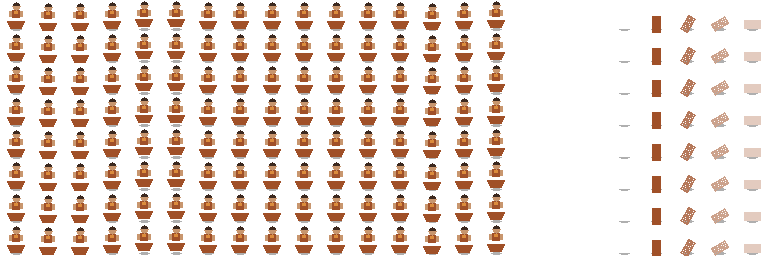
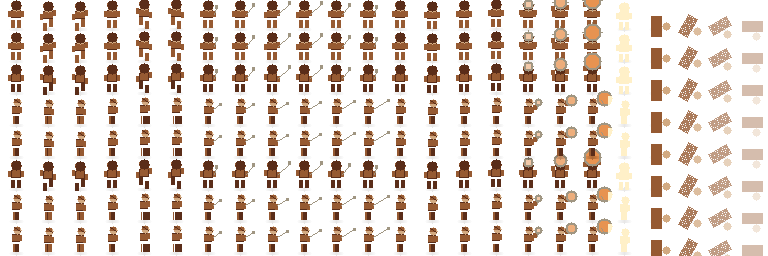
Fix CI: install SDL X11 deps on Linux

Changed region(s): [[0.0, 0.0, 1.0, 1.0]]

diff --git a/src/scenes/town_scene.hpp b/src/scenes/town_scene.hpp
@@ -37,6 +37,7 @@
 #include "../systems/world_renderer.hpp"
 #include "../systems/player_configurator.hpp"
 #include "../core/pause_menu.hpp"
+#include "../core/sprite_layout.hpp"
 
 namespace mion {
 
@@ -107,6 +108,7 @@ public:
 
         _actors.clear();
         _actors.push_back(&_player);
+        _rebuild_npc_actors();
 
         if (_audio) {
             _audio->stop_all_ambient();
@@ -179,6 +181,7 @@ public:
         _player_action.fixed_update(_player, input, dt, _audio, nullptr, nullptr);
         _resource_sys.fixed_update(_actors, dt);
         _col_sys.resolve_all(_actors, _room);
+        _col_sys.resolve_actors(_actors, &_room);
         _update_npcs(dt);
 
         // Animação do player — atualiza dir_row igual ao dungeon
@@ -280,10 +283,9 @@ public:
             }
         }
 
-        // NPCs — sprite animado ou retângulo fallback
-        // sprite_scale=2.0 → frame 32x32 lógico fica 64x64 no mundo,
-        // consistente com inimigos do dungeon que usam sprite_scale=2.0.
-        static constexpr float kNpcSpriteScale = 2.0f;
+        // NPCs — sprite animado ou retângulo fallback.
+        // Escala de NPC = mesma escala de sprite do player, para manter
+        // coerência visual de tamanho entre todos os personagens 2D.
         static const struct { const char* name; const char* path; } kNpcSprites[] = {
             { "Mira",     "assets/npcs/npc_mira.png"     },
             { "Forge",    "assets/npcs/npc_forge.png"    },
@@ -298,24 +300,35 @@ public:
                 }
             }
             if (ntex) {
-                // Idle frame 0 da linha Sul (row 0, col 12): frame 32×32 px
-                constexpr float kFW = 32.0f, kFH = 32.0f;
-                SDL_FRect src = { 12 * kFW, 0.0f, kFW, kFH };
-                // Centralizado em npc.{x,y} com tamanho escalado
-                float draw_w = kFW * kNpcSpriteScale;
-                float draw_h = kFH * kNpcSpriteScale;
+                // Idle frame 0 da linha Sul (row 0, col 12).
+                // Usa o mesmo tamanho lógico de frame do layout Puny e a mesma
+                // escala de sprite do player, para que NPCs tenham o mesmo
+                // "tamanho em mundo".
+                constexpr float kFW = (float)mion::SpriteLayout::PunyFrameW;
+                constexpr float kFH = (float)mion::SpriteLayout::PunyFrameH;
+                SDL_FRect src = { 12.0f * kFW, 0.0f, kFW, kFH };
+
+                float npc_scale = _player.sprite_scale;
+                if (npc_scale <= 0.0f) npc_scale = 2.0f; // fallback seguro
+
+                float draw_w = kFW * npc_scale;
+                float draw_h = kFH * npc_scale;
                 SDL_FRect dst = {
-                    _camera.world_to_screen_x(npc.x) - draw_w * 0.5f,
-                    _camera.world_to_screen_y(npc.y) - draw_h * 0.5f,
+                    _camera.world_to_screen_x(npc.actor ? npc.actor->transform.x : npc.x) - draw_w * 0.5f,
+                    _camera.world_to_screen_y(npc.actor ? npc.actor->transform.y : npc.y) - draw_h * 0.5f,
                     draw_w, draw_h
                 };
                 SDL_RenderTexture(r, ntex, &src, &dst);
             } else {
-                draw_world_rect(r, _camera, npc.x, npc.y, 14.0f, 18.0f,
+                const float cx = npc.actor ? npc.actor->transform.x : npc.x;
+                const float cy = npc.actor ? npc.actor->transform.y : npc.y;
+                draw_world_rect(r, _camera, cx, cy, 14.0f, 18.0f,
                                 npc.portrait_color.r, npc.portrait_color.g, npc.portrait_color.b);
             }
-            draw_text(r, _camera.world_to_screen_x(npc.x - 40.0f),
-                      _camera.world_to_screen_y(npc.y - 36.0f), npc.name.c_str(), 2, 220, 220,
+            const float label_x = (npc.actor ? npc.actor->transform.x : npc.x) - 40.0f;
+            const float label_y = (npc.actor ? npc.actor->transform.y : npc.y) - 36.0f;
+            draw_text(r, _camera.world_to_screen_x(label_x),
+                      _camera.world_to_screen_y(label_y), npc.name.c_str(), 2, 220, 220,
                       200, 255);
         }
 
@@ -370,6 +383,7 @@ private:
     TilemapRenderer          _tile_renderer;
     Actor                    _player;
     std::vector<Actor*>      _actors;
+    std::vector<Actor>       _npc_actors;
     std::vector<NpcEntity>   _npcs;
     ShopInventory            _shop_forge;
     QuestState               _quest_state;
@@ -551,6 +565,32 @@ private:
         _player.transform.set_position(400.0f, 800.0f);
     }
 
+    void _rebuild_npc_actors() {
+        _npc_actors.clear();
+        _npc_actors.reserve(_npcs.size());
+        // Mantém o player sempre no início de _actors.
+        _actors.clear();
+        _actors.push_back(&_player);
+
+        for (auto& npc : _npcs) {
+            Actor a;
+            a.name      = npc.name;
+            a.team      = Team::Enemy; // neutro para town; não participa de combate.
+            a.transform.set_position(npc.x, npc.y);
+            a.collision.half_w = npc.collision_half;
+            a.collision.half_h = npc.collision_half;
+            a.is_alive         = true;
+            a.was_alive        = true;
+            a.move_speed       = npc.wander_speed;
+            a.sprite_sheet     = nullptr;
+            a.sprite_scale     = _player.sprite_scale > 0.0f ? _player.sprite_scale : 2.0f;
+
+            _npc_actors.push_back(a);
+            npc.actor = &_npc_actors.back();
+            _actors.push_back(npc.actor);
+        }
+    }
+
     // -----------------------------------------------------------------------
     // Wander + colisão de NPCs
     // -----------------------------------------------------------------------
@@ -567,10 +607,15 @@ private:
             return (float)(_rng_next() & 0xFFFFu) / 65535.0f;
         };
 
-        const float phw = _player.collision.half_w;
-        const float phh = _player.collision.half_h;
-
         for (auto& npc : _npcs) {
+            Actor* a = npc.actor;
+            if (!a) {
+                // Fallback: mantém NPC estático se não houver Actor associado.
+                continue;
+            }
+            float& nx = a->transform.x;
+            float& ny = a->transform.y;
+
             // --- Wander timer ---
             npc.wander_timer -= dt;
             if (npc.wander_timer <= 0.0f) {
@@ -591,71 +636,25 @@ private:
                 npc.wander_timer = 1.4f + _rng_f01() * 1.2f; // 1.4–2.6 s
             }
 
-            // --- Mover NPC ---
-            npc.x += npc.wander_dir_x * npc.wander_speed * dt;
-            npc.y += npc.wander_dir_y * npc.wander_speed * dt;
+            // --- Mover NPC (via Actor) ---
+            nx += npc.wander_dir_x * npc.wander_speed * dt;
+            ny += npc.wander_dir_y * npc.wander_speed * dt;
+            a->is_moving = (npc.wander_dir_x != 0.0f || npc.wander_dir_y != 0.0f);
 
             // --- Conter dentro do raio de spawn ---
-            float sdx = npc.x - npc.spawn_x;
-            float sdy = npc.y - npc.spawn_y;
+            float sdx = nx - npc.spawn_x;
+            float sdy = ny - npc.spawn_y;
             float sdist2 = sdx * sdx + sdy * sdy;
             if (sdist2 > npc.wander_radius * npc.wander_radius) {
                 float sdist = std::sqrt(sdist2);
-                npc.x = npc.spawn_x + sdx / sdist * npc.wander_radius;
-                npc.y = npc.spawn_y + sdy / sdist * npc.wander_radius;
+                nx = npc.spawn_x + sdx / sdist * npc.wander_radius;
+                ny = npc.spawn_y + sdy / sdist * npc.wander_radius;
                 npc.wander_dir_x = 0.0f;
                 npc.wander_dir_y = 0.0f;
             }
-
-            // --- Push-out NPC vs world bounds ---
-            float nh = npc.collision_half;
-            if (npc.x - nh < _room.bounds.min_x) npc.x = _room.bounds.min_x + nh;
-            if (npc.x + nh > _room.bounds.max_x) npc.x = _room.bounds.max_x - nh;
-            if (npc.y - nh < _room.bounds.min_y) npc.y = _room.bounds.min_y + nh;
-            if (npc.y + nh > _room.bounds.max_y) npc.y = _room.bounds.max_y - nh;
-
-            // --- Push-out NPC vs obstáculos ---
-            for (const auto& obs : _room.obstacles) {
-                float nmin_x = npc.x - nh, nmax_x = npc.x + nh;
-                float nmin_y = npc.y - nh, nmax_y = npc.y + nh;
-                if (nmax_x <= obs.bounds.min_x || nmin_x >= obs.bounds.max_x) continue;
-                if (nmax_y <= obs.bounds.min_y || nmin_y >= obs.bounds.max_y) continue;
-                float ol = nmax_x - obs.bounds.min_x;
-                float or_ = obs.bounds.max_x - nmin_x;
-                float ou = nmax_y - obs.bounds.min_y;
-                float od = obs.bounds.max_y - nmin_y;
-                float mx = (ol < or_) ? -ol : or_;
-                float my = (ou < od) ? -ou : od;
-                if (std::abs(mx) < std::abs(my))
-                    npc.x += mx;
-                else
-                    npc.y += my;
-                npc.wander_dir_x = 0.0f;
-                npc.wander_dir_y = 0.0f;
-            }
-
-            // --- Colisão Player ↔ NPC (push-out mútuo) ---
-            float pcx = _player.transform.x, pcy = _player.transform.y;
-            float pmin_x = pcx - phw, pmax_x = pcx + phw;
-            float pmin_y = pcy - phh, pmax_y = pcy + phh;
-            float nmin_x2 = npc.x - nh, nmax_x2 = npc.x + nh;
-            float nmin_y2 = npc.y - nh, nmax_y2 = npc.y + nh;
-            if (pmax_x > nmin_x2 && pmin_x < nmax_x2 &&
-                pmax_y > nmin_y2 && pmin_y < nmax_y2) {
-                float pen_x = std::min(pmax_x - nmin_x2, nmax_x2 - pmin_x);
-                float pen_y = std::min(pmax_y - nmin_y2, nmax_y2 - pmin_y);
-                if (pen_x < pen_y) {
-                    float sign = (pcx < npc.x) ? -1.0f : 1.0f;
-                    _player.transform.x -= sign * pen_x * 0.5f;
-                    npc.x              += sign * pen_x * 0.5f;
-                } else {
-                    float sign = (pcy < npc.y) ? -1.0f : 1.0f;
-                    _player.transform.y -= sign * pen_y * 0.5f;
-                    npc.y              += sign * pen_y * 0.5f;
-                }
-                // Re-conter player nos bounds
-                _col_sys.resolve(_player, _room);
-            }
+            // Sincroniza posição espelhada usada em interações/render.
+            npc.x = nx;
+            npc.y = ny;
         }
     }
 

diff --git a/tools/gen_animated_sprites.py b/tools/gen_animated_sprites.py
@@ -208,6 +208,47 @@ PALETTES: dict[str, dict[str, RGBA]] = {
         "shadow":  (10,  20,  60,  80),
         "style":   "soldier",
     },
+    # NPCs da town em estilo Puny — variações de soldier/mage com cores civis.
+    "npc_mira": {
+        "body":    (190, 150, 80,  255),   # vestido amarelo/dourado
+        "outline": (110, 80,  40,  255),
+        "head":    (225, 190, 145, 255),
+        "weapon":  (150, 140, 160, 255),
+        "accent":  (245, 215, 100, 255),
+        "hurt":    (255, 255, 255, 255),
+        "shadow":  (35,  30,  20,  80),
+        "style":   "soldier",
+    },
+    "npc_forge": {
+        "body":    (150, 90,  50,  255),   # avental marrom/laranja
+        "outline": (90,  45,  25,  255),
+        "head":    (210, 170, 130, 255),
+        "weapon":  (160, 150, 130, 255),
+        "accent":  (230, 140, 70,  255),
+        "hurt":    (255, 240, 200, 255),
+        "shadow":  (40,  25,  18,  80),
+        "style":   "soldier",
+    },
+    "npc_villager": {
+        "body":    (90,  140, 90,  255),   # tons de verde/terra
+        "outline": (50,  80,  45,  255),
+        "head":    (215, 180, 135, 255),
+        "weapon":  (150, 150, 140, 255),
+        "accent":  (130, 190, 120, 255),
+        "hurt":    (240, 255, 240, 255),
+        "shadow":  (25,  45,  25,  80),
+        "style":   "soldier",
+    },
+    "npc_elder": {
+        "body":    (110, 115, 95,  255),   # túnica neutra
+        "outline": (60,  65,  45,  255),
+        "head":    (220, 215, 200, 255),
+        "weapon":  (170, 150, 200, 255),
+        "accent":  (170, 180, 140, 255),
+        "hurt":    (255, 255, 255, 255),
+        "shadow":  (25,  25,  20,  80),
+        "style":   "mage",
+    },
 }
 
 # ---------------------------------------------------------------------------
@@ -717,6 +758,27 @@ SPRITES: list[dict] = [
         "path":    "assets/sprites/player.png",
         "palette": "player",
         "weapon":  "melee",
+    },
+    # NPCs da town em estilo Puny (usarão o mesmo rig de soldier/mage)
+    {
+        "path":    "assets/npcs/npc_mira.png",
+        "palette": "npc_mira",
+        "weapon":  "melee",
+    },
+    {
+        "path":    "assets/npcs/npc_forge.png",
+        "palette": "npc_forge",
+        "weapon":  "melee",
+    },
+    {
+        "path":    "assets/npcs/npc_villager.png",
+        "palette": "npc_villager",
+        "weapon":  "melee",
+    },
+    {
+        "path":    "assets/npcs/npc_elder.png",
+        "palette": "npc_elder",
+        "weapon":  "staff",
     },
 ]
 

diff --git a/tests/test_scenes_v2.cpp b/tests/test_scenes_v2.cpp
@@ -56,6 +56,16 @@ static void test_town_scene_stable_without_transition_on_idle_ticks() {
     EXPECT_TRUE(next == nullptr || std::strcmp(next, "") == 0);
 }
 
+static void test_town_scene_npc_wander_stable() {
+    mion::TownScene s;
+    s.enter();
+    mion::InputState idle;
+    for (int i = 0; i < 600; ++i)
+        s.fixed_update(1.0f / 60.0f, idle);
+    const char* next = s.next_scene();
+    EXPECT_TRUE(next == nullptr || std::strcmp(next, "") == 0);
+}
+
 static void test_victory_scene_continue_and_quit_paths() {
     mion::VictoryScene s;
     s.enter();
@@ -109,6 +119,7 @@ void run_scenes_v2_tests() {
     run("V2.SceneRegistry.EndgameScenes", test_scene_registry_creates_new_endgame_scenes);
     run("V2.TownScene.PauseQuitTitle", test_town_scene_pause_quit_to_title);
     run("V2.TownScene.IdleStable", test_town_scene_stable_without_transition_on_idle_ticks);
+    run("V2.TownScene.NpcWanderStable", test_town_scene_npc_wander_stable);
     run("V2.VictoryScene.Flow", test_victory_scene_continue_and_quit_paths);
     run("V2.GameOverScene.Flow", test_game_over_scene_retry_title_and_quit);
 }

diff --git a/tests/test_common.hpp b/tests/test_common.hpp
@@ -10,9 +10,9 @@ inline int s_fail = 0;
 #define EXPECT_TRUE(expr)                                                                          \
     do {                                                                                           \
         if (expr) {                                                                                \
-            ++s_pass;                                                                            \
+            ++s_pass;                                                                              \
         } else {                                                                                   \
-            ++s_fail;                                                                            \
+            ++s_fail;                                                                              \
             std::printf("  FAIL  %s:%d  %s\n", __FILE__, __LINE__, #expr);                        \
         }                                                                                          \
     } while (0)

diff --git a/src/entities/npc.hpp b/src/entities/npc.hpp
@@ -4,6 +4,8 @@
 
 namespace mion {
 
+struct Actor;
+
 enum class NpcType { QuestGiver, Merchant, Generic };
 
 struct NpcEntity {
@@ -27,6 +29,9 @@ struct NpcEntity {
     float wander_dir_x    = 0.0f;  // direção atual de movimento
     float wander_dir_y    = 0.0f;
     float collision_half  = 14.0f; // meia-largura/altura do AABB NPC
+
+    // Actor associado na cena (Town) para integrar com MovementSystem/RoomCollisionSystem.
+    Actor*      actor           = nullptr;
 };
 
 } // namespace mion

diff --git a/src/core/sprite_layout.hpp b/src/core/sprite_layout.hpp
@@ -1,0 +1,16 @@
+#pragma once
+
+namespace mion {
+
+// Layout lógico padrão para sprites de personagens estilo "Puny".
+// Mantendo estes valores centralizados, fica fácil migrar de 32×32
+// para 48×48 ou 64×64 no futuro sem caçar números mágicos no código.
+struct SpriteLayout {
+    static constexpr int PunyFrameW  = 32;
+    static constexpr int PunyFrameH  = 32;
+    static constexpr int PunyCols    = 24;
+    static constexpr int PunyRows    = 8;
+};
+
+} // namespace mion
+
